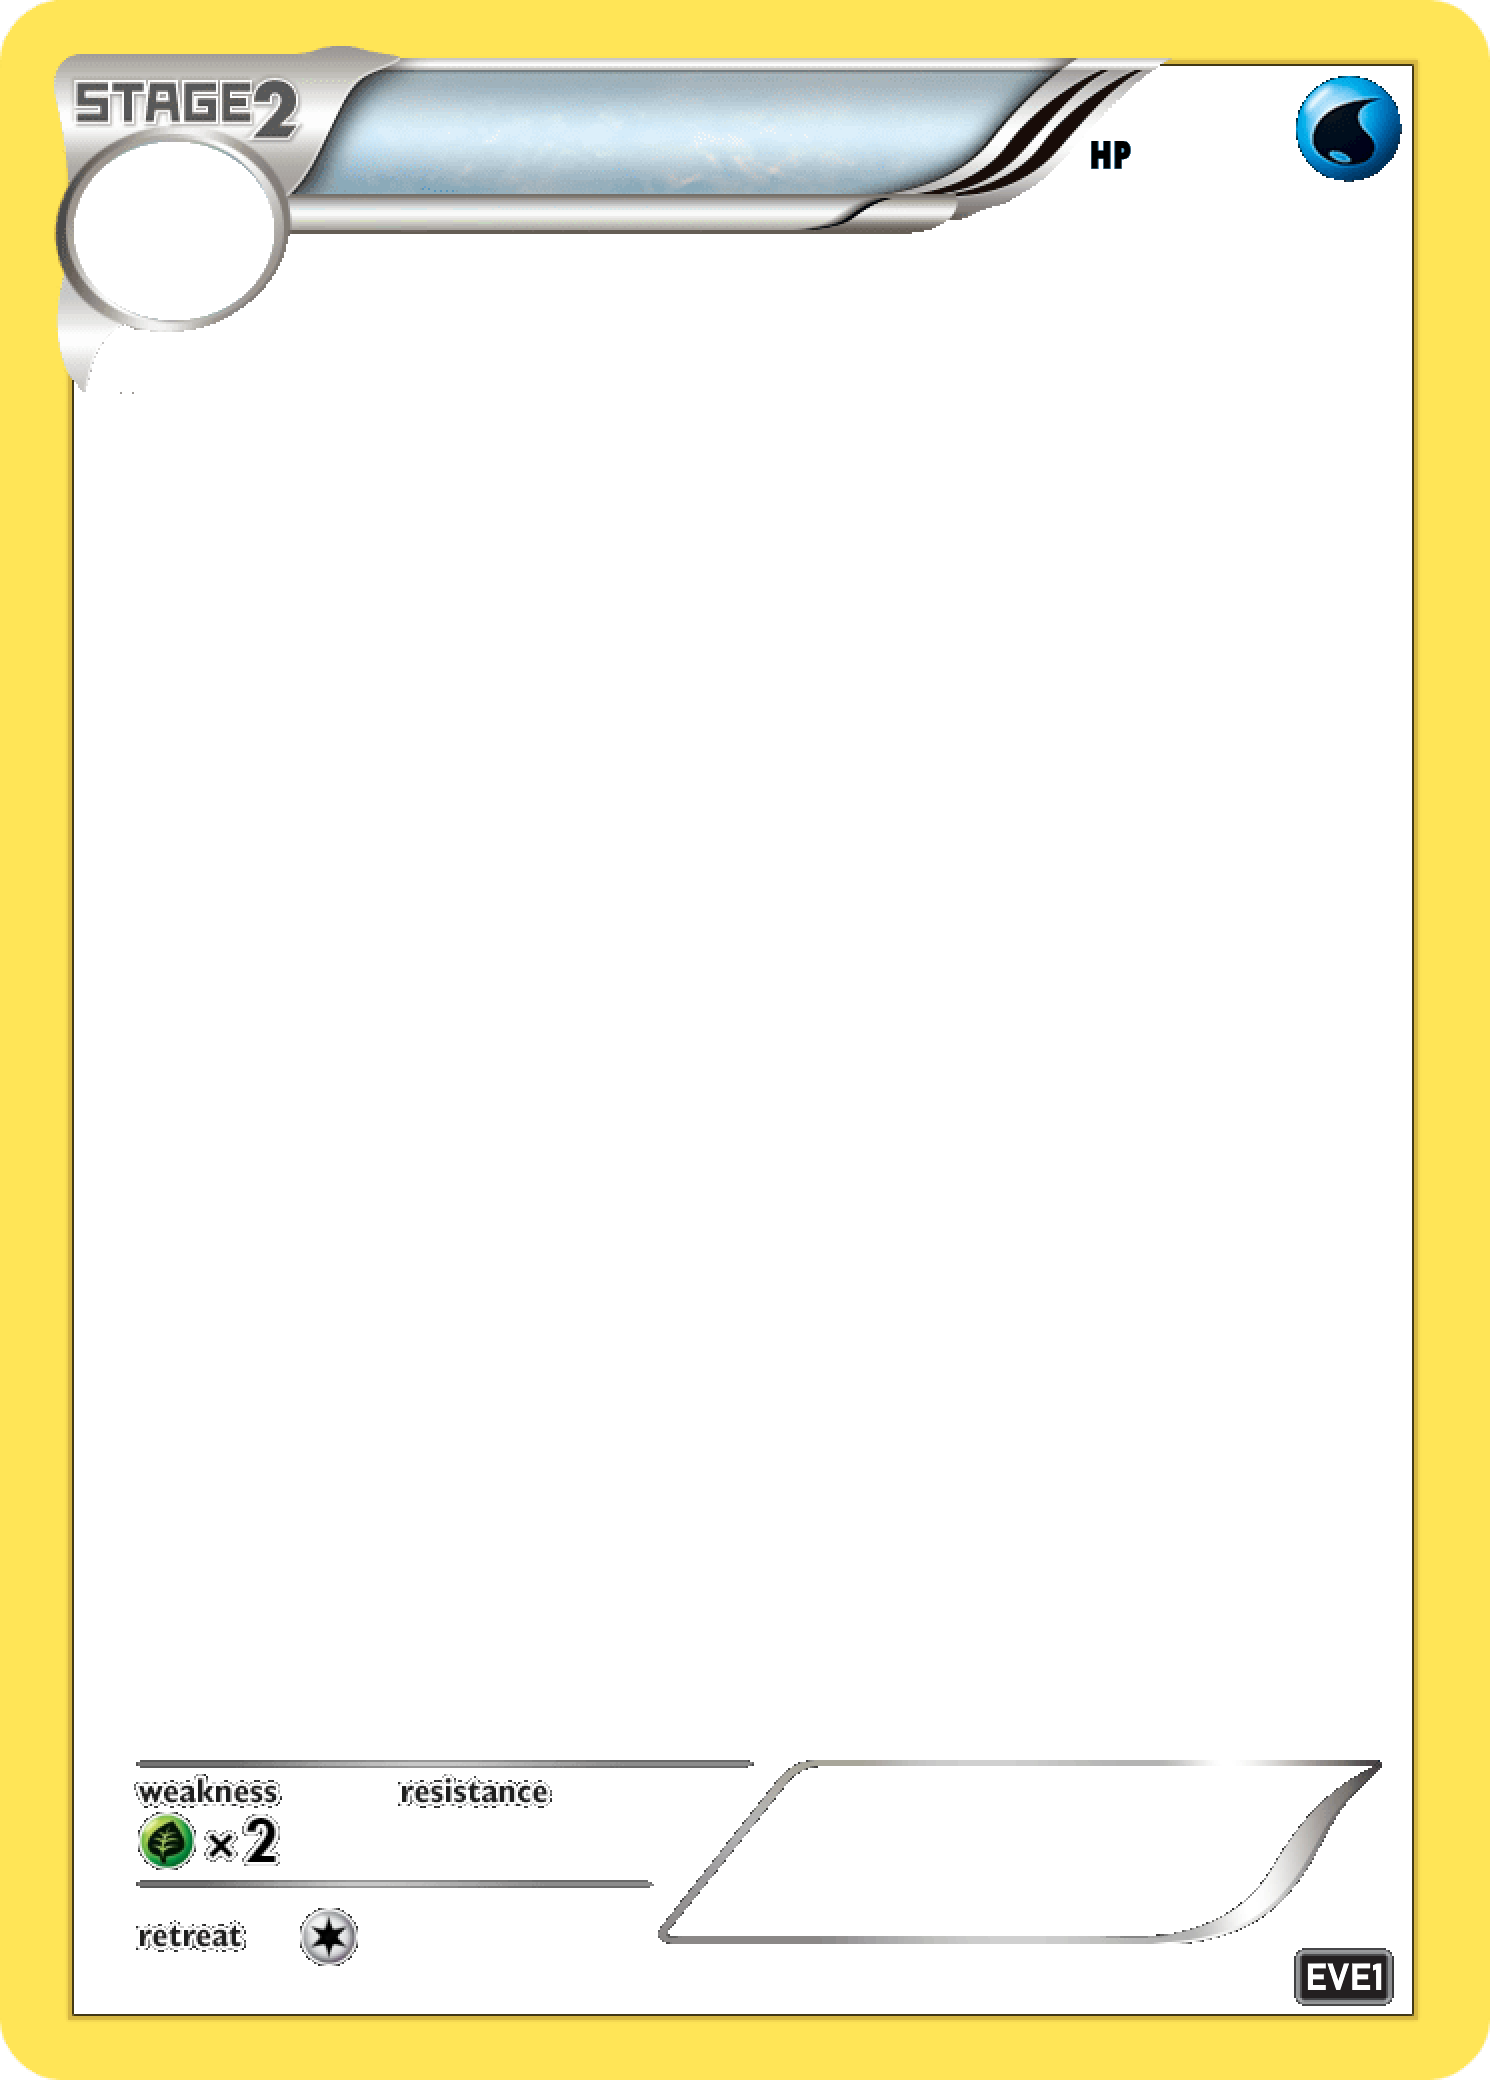
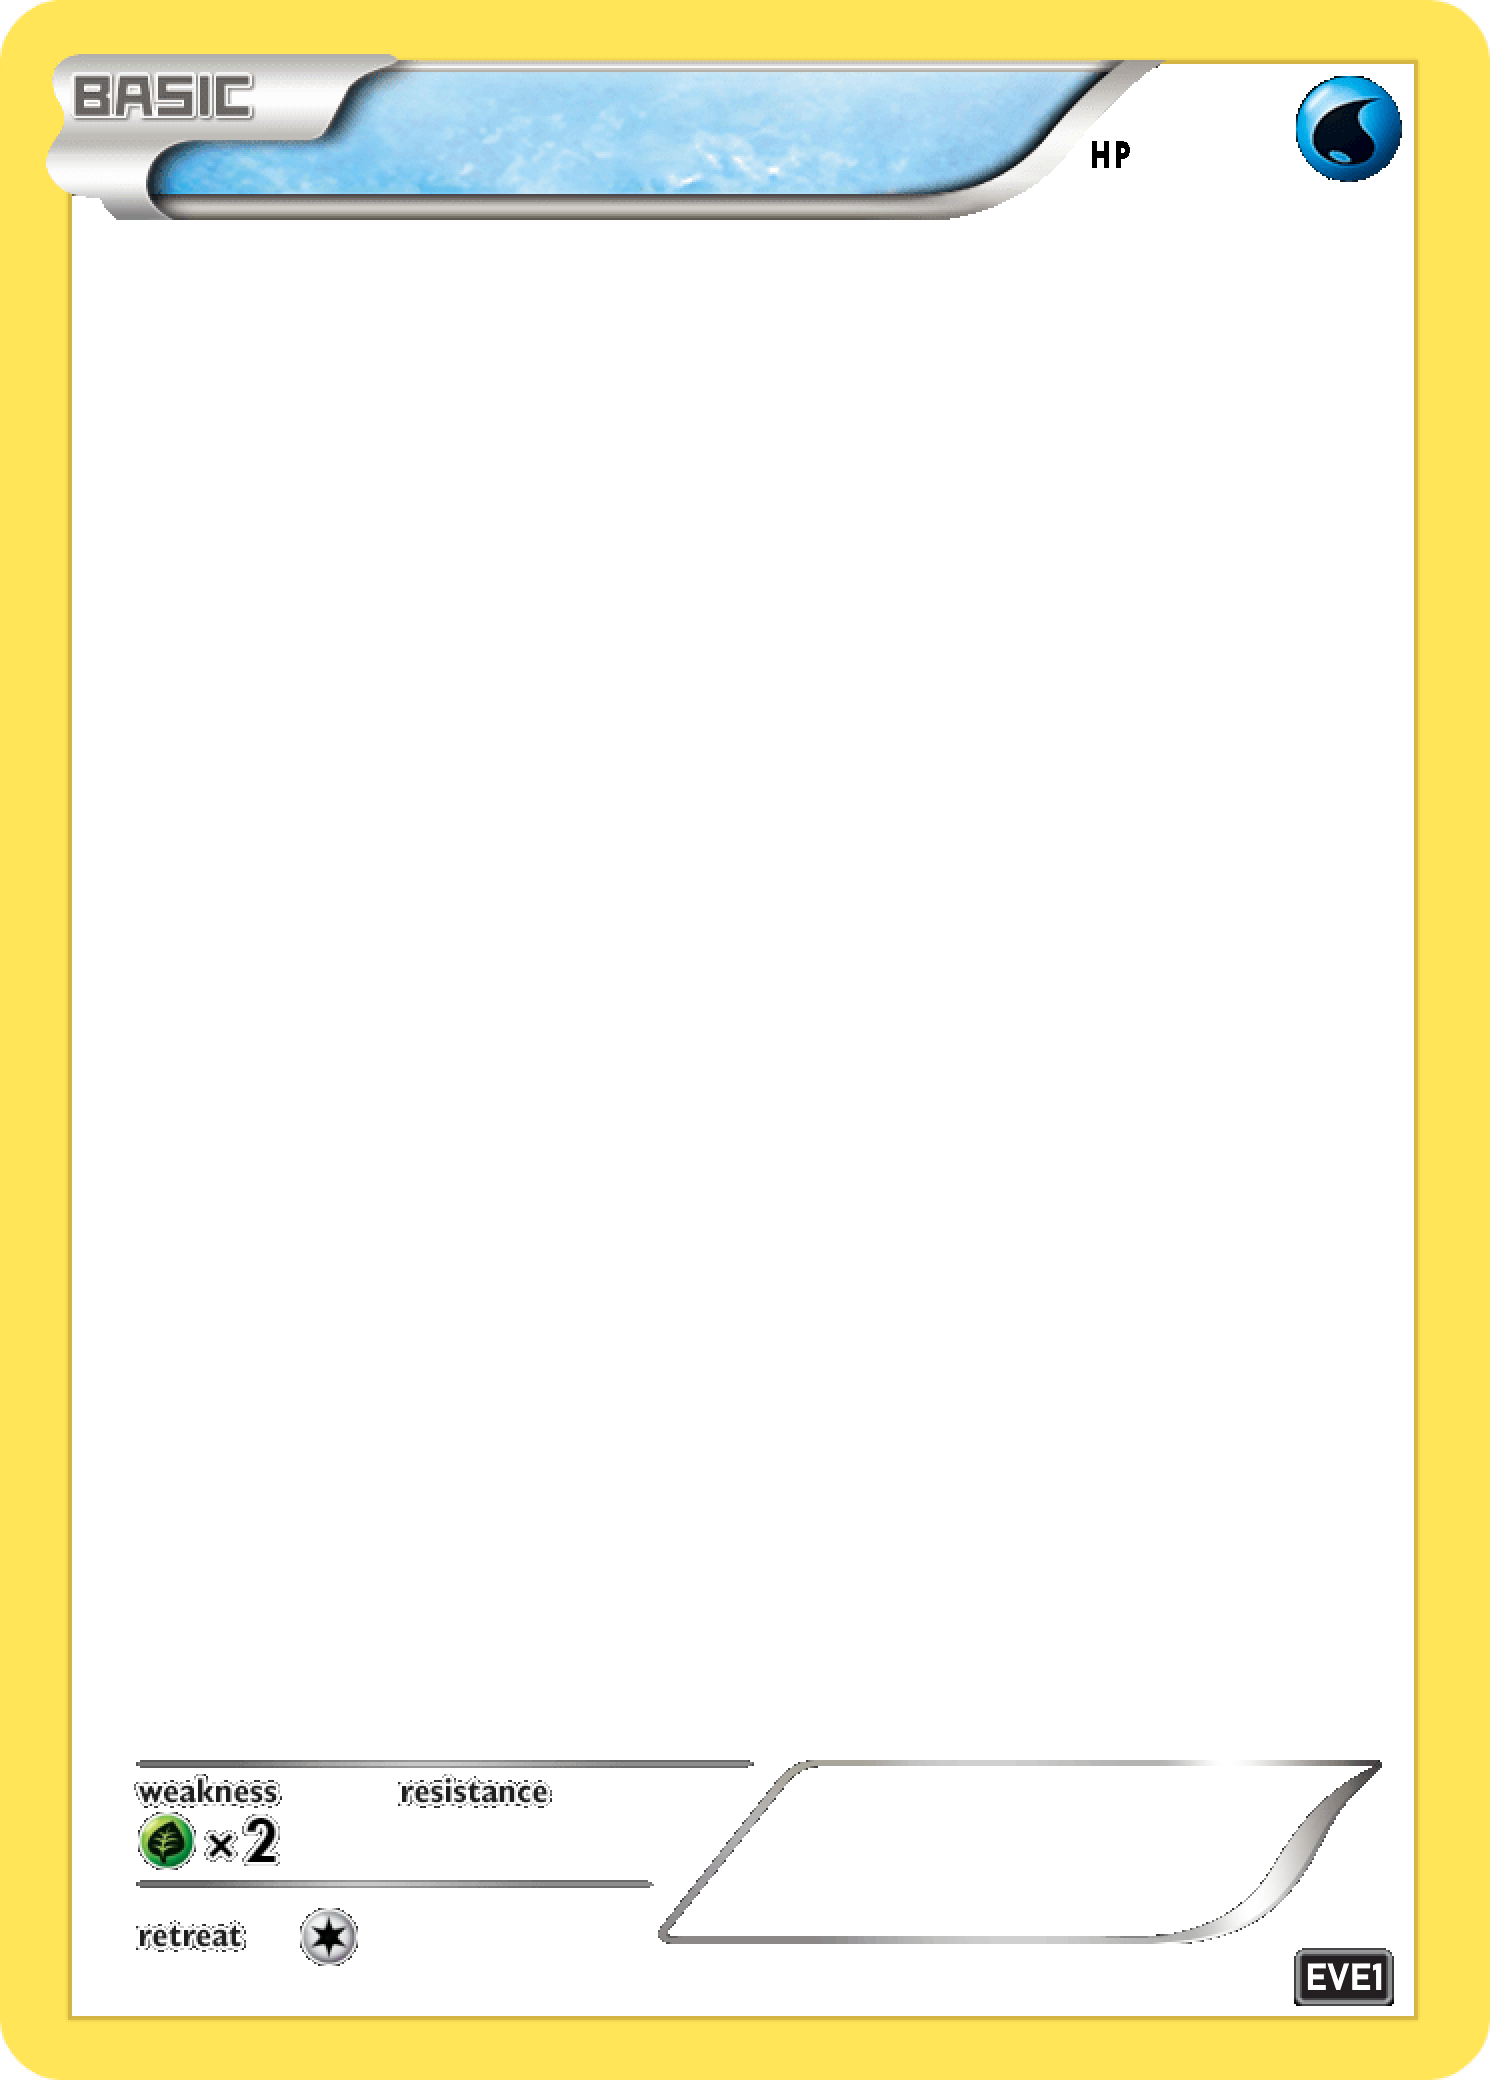
made g!pokedex

Changed region(s): [[0.0309, 0.0, 0.7718, 0.1875]]

diff --git a/pullingObjects.js b/pullingObjects.js
@@ -50,10 +50,12 @@ async function makePokeImageData(pokemonData, cardData, context, x, y) {
 
     let frame;
     if (pokemonData.poke_type == "BASIC") {
-        frame = await Canvas.loadImage(`./pokeImages/frames/${pokemonData.series}/Normal-Frame.png`);
+        if (pokemonData.card_type == "FRAME" || pokemonData.card_type == "HOLOFRAME") frame = await Canvas.loadImage(`./pokeImages/frames/${pokemonData.series}/Full-Frame.png`)
+        else frame = await Canvas.loadImage(`./pokeImages/frames/${pokemonData.series}/Normal-Frame.png`);
     }
     else if (pokemonData.poke_type == "STAGE 1") {
-        frame = await Canvas.loadImage(`./pokeImages/frames/${pokemonData.series}/Stage1-Frame.png`);
+        if (pokemonData.card_type == "FRAME" || pokemonData.card_type == "HOLOFRAME") frame = await Canvas.loadImage(`./pokeImages/frames/${pokemonData.series}/FullStage1-Frame.png`)
+        else frame = await Canvas.loadImage(`./pokeImages/frames/${pokemonData.series}/Stage1-Frame.png`);
     }
     else if (pokemonData.poke_type == "STAGE 2") {
         if (pokemonData.card_type == "FRAME" || pokemonData.card_type == "HOLOFRAME") frame = await Canvas.loadImage(`./pokeImages/frames/${pokemonData.series}/FullStage2-Frame.png`);
@@ -91,11 +93,51 @@ async function makePokeImageData(pokemonData, cardData, context, x, y) {
     return context;
 }
 
+async function makePokeImageDataNoAffection(pokemonData, context, x, y) {
+    const bottom = await Canvas.loadImage(`./pokeImages/${pokemonData.card_id}-${pokemonData.name}/Bottom.png`);
+
+    let frame;
+    if (pokemonData.poke_type == "BASIC") {
+        if (pokemonData.card_type == "FRAME" || pokemonData.card_type == "HOLOFRAME") frame = await Canvas.loadImage(`./pokeImages/frames/${pokemonData.series}/Full-Frame.png`)
+        else frame = await Canvas.loadImage(`./pokeImages/frames/${pokemonData.series}/Normal-Frame.png`);
+    }
+    else if (pokemonData.poke_type == "STAGE 1") {
+        if (pokemonData.card_type == "FRAME" || pokemonData.card_type == "HOLOFRAME") frame = await Canvas.loadImage(`./pokeImages/frames/${pokemonData.series}/FullStage1-Frame.png`)
+        else frame = await Canvas.loadImage(`./pokeImages/frames/${pokemonData.series}/Stage1-Frame.png`);
+    }
+    else if (pokemonData.poke_type == "STAGE 2") {
+        if (pokemonData.card_type == "FRAME" || pokemonData.card_type == "HOLOFRAME") frame = await Canvas.loadImage(`./pokeImages/frames/${pokemonData.series}/FullStage2-Frame.png`);
+        else frame = await Canvas.loadImage(`./pokeImages/frames/${pokemonData.series}/Stage2-Frame.png`);
+    }
+
+    const hp = await Canvas.loadImage(`./pokeImages/health/20.png`);
+    const top = await Canvas.loadImage(`./pokeImages/${pokemonData.card_id}-${pokemonData.name}/Top-${pokemonData.card_type}.png`);
+
+    const moves = await Canvas.loadImage(`./pokeImages/moves/${pokemonData.series}/${pokemonData.card_type}/${pokemonData.type}/Moves.png`);
+
+    const holoEffect = await Canvas.loadImage(`./pokeImages/effects/HOLO.png`);
+
+    context.drawImage(bottom, x, y, bottom.width, bottom.height);
+    context.drawImage(frame, x, y, bottom.width, bottom.height);
+    context.drawImage(hp, x, y, bottom.width, bottom.height);
+    context.drawImage(top, x, y, bottom.width, bottom.height);
+    context.drawImage(moves, x, y, bottom.width, bottom.height);
+
+    if (pokemonData.card_type == "HOLO" || pokemonData.card_type == "HOLOFRAME") {
+        context.globalCompositeOperation = "multiply";
+        context.drawImage(holoEffect, x, y, bottom.width, bottom.height);
+        context.globalCompositeOperation = "source-over";
+    }
+
+    return context;
+}
+
 async function makePokeImage(pokemonData, cardData) {
     const canvas = Canvas.createCanvas(1490, 2080);
     let context = canvas.getContext('2d');
 
-    context = await makePokeImageData(pokemonData, cardData, context, 0, 0);
+    if (!cardData) context = await makePokeImageDataNoAffection(pokemonData, context, 0, 0);
+    else context = await makePokeImageData(pokemonData, cardData, context, 0, 0);
 
     return canvas.encode('png');
 }
@@ -231,6 +273,13 @@ function formatName(pokemonData) {
     else return `${pokemonData.card_id}-${pokemonData.name}`;
 }
 
+function formatNameSmall(pokemonData) {
+    if (pokemonData.card_type == "HOLO") return `\\*${pokemonData.name}\\*`;
+    else if (pokemonData.card_type == "FRAME") return `[${pokemonData.name}]`;
+    else if (pokemonData.card_type == "HOLOFRAME") return `{${pokemonData.name}}`;
+    else return `${pokemonData.card_id}-${pokemonData.name}`;
+}
+
 async function checkSeriesCollect(userCards, series, message) {
     let seriesDict = {}
 
@@ -272,4 +321,4 @@ async function checkSeriesCollect(userCards, series, message) {
     }
 }
 
-module.exports = { getWhichStar, makePokeImage, makePokeImagePull, makePokeImageTrade, addBalance, raritySymbol, formatName, checkSeriesCollect };
+module.exports = { getWhichStar, makePokeImage, makePokeImagePull, makePokeImageTrade, addBalance, raritySymbol, formatName, formatNameSmall, checkSeriesCollect };

diff --git a/commands/info/pokedex.js b/commands/info/pokedex.js
@@ -1,0 +1,87 @@
+const { EmbedBuilder, AttachmentBuilder, ComponentType, ButtonBuilder, ActionRowBuilder, ButtonStyle } = require("discord.js");
+const { CardDatabase, Wishlists } = require("../../dbObjects");
+const { formatName, raritySymbol, makePokeImage } = require("../../pullingObjects");
+
+function makeEmbed(pokemonData, wishlistInfo) {
+
+    const embed = new EmbedBuilder()
+        .setColor("#616161")
+        .setImage(`attachment://poke-image.png`)
+        .setTitle(`Pokedex - ${formatName(pokemonData)}`)
+        .setDescription(`**Series** - ${pokemonData.series}\n**Rarity** - ${pokemonData.rarity} [${raritySymbol(pokemonData.rarity)}]\n**Card Type** - ${pokemonData.card_type}\n**Wishlisted** - ${wishlistInfo}\n\n**Time Pulled** - ${pokemonData.times_pulled}\n**Cards in Circulation** - ${pokemonData.in_circulation}\n\n**Poke #** - ${pokemonData.poke_number}\n**Day Drawn** - ${pokemonData.drawn_date}\n**Type** - ${pokemonData.type}\n\n**Get** - ${pokemonData.obtain}`)
+
+    return embed;
+}
+
+function makeButton() {
+
+    const leftButton = new ButtonBuilder()
+        .setCustomId("left")
+        .setStyle(ButtonStyle.Secondary)
+        .setEmoji("◀")
+        .setDisabled(true);
+
+    const rightButton = new ButtonBuilder()
+        .setCustomId("right")
+        .setStyle(ButtonStyle.Secondary)
+        .setEmoji("▶");
+
+    const row = new ActionRowBuilder()
+        .addComponents(leftButton, rightButton);
+
+    return row;
+}
+
+module.exports = {
+    name: "pokedex",
+    shortName: ["pd"],
+        
+    async execute(message) {
+        const splitMessage = message.content.split(" ");
+
+        if (splitMessage.length != 2) { await message.channel.send(`${message.author}, please enter the name of the pokemon you'd like to lookup`); return; }
+
+        const pokeName = `${splitMessage[1][0].toUpperCase()}${splitMessage[1].substr(1).toLowerCase()}`;
+        
+        const pokeList = await CardDatabase.findAll({ where: { name: pokeName } });
+        if (pokeList.length == 0) { await message.channel.send(`${message.author}, that pokemon either dosen't exist or its name is misspelt.`); return; }
+
+        let pokeIndex = 0;
+
+        let wishlistInfo = (await Wishlists.findAll({ where: { card_id: pokeList[pokeIndex].card_id } })).length;
+
+        let attachment = new AttachmentBuilder(await makePokeImage(pokeList[pokeIndex], null), { name: 'poke-image.png' });
+
+        const buttons = makeButton();
+        buttons.components[0].setDisabled(true);
+        
+        const response = await message.channel.send({ embeds: [makeEmbed(pokeList[pokeIndex], wishlistInfo)], files: [attachment], components: [buttons] });
+        
+        const collector = response.createMessageComponentCollector({ componentType: ComponentType.Button, time: 150_000 });
+
+        collector.on("collect", async i => {
+            if (i.user.id != message.author.id) return;
+
+            if (i.customId == "right") {
+                pokeIndex++;
+                wishlistInfo = (await Wishlists.findAll({ where: { card_id: pokeList[pokeIndex].card_id } })).length;
+                attachment = new AttachmentBuilder(await makePokeImage(pokeList[pokeIndex], null), { name: 'poke-image.png' });
+
+                buttons.components[0].setDisabled(false);
+                if (pokeIndex + 1 == pokeList.length) buttons.components[1].setDisabled(true);
+                await response.edit({ embeds: [makeEmbed(pokeList[pokeIndex], wishlistInfo)], files: [attachment], components: [buttons] });
+                i.deferUpdate();
+            }
+            else if (i.customId == "left") {
+                pokeIndex--;
+                wishlistInfo = (await Wishlists.findAll({ where: { card_id: pokeList[pokeIndex].card_id } })).length;
+                attachment = new AttachmentBuilder(await makePokeImage(pokeList[pokeIndex], null), { name: 'poke-image.png' });
+
+                buttons.components[1].setDisabled(false);
+                if (pokeIndex == 0) buttons.components[0].setDisabled(true);
+                await response.edit({ embeds: [makeEmbed(pokeList[pokeIndex], wishlistInfo)], files: [attachment], components: [buttons] });
+                i.deferUpdate();
+            }
+        })
+    }
+}

diff --git a/commands/info/userInfo.js b/commands/info/userInfo.js
@@ -43,7 +43,6 @@ module.exports = {
         const splitMessage = message.content.split(" ");
 
         let user;
-        let userStat;
 
         const buttons = makeButton();
         buttons.components[0].setDisabled(true);
@@ -55,28 +54,29 @@ module.exports = {
 
         if (splitMessage.length == 1) {
             user = await Users.findOne({ where: { user_id: message.author.id } });
-            userStat = await UserStats.findOne({ where: { user_id: user.user_id } });
-
-            const userTitles = await UserTitles.findAll({ where: { user_id: user.user_id } });
-
-            for (title of userTitles) {
-                const titleData = await TitleDatabase.findOne({ where: { id: title.title_id } });
-                
-                titleList.push(`\`${titleData.name}\``);
-                titleDesc.push(`**${titleData.name}:**\n\`\`\`${titleData.description}\`\`\``);
-            }
-
-            if (titleList.length == 0) {
-                titleList.push('\`None\`')
-                titleDesc.push(`\`No Titles\``)
-            }
-
-            await response.edit({ content: "", embeds: [makeEmbed(user, message.author, userStat, titleList)], components: [buttons] });
-            
         }
         else {
-            // Check other user stats
+            user = await Users.findOne({ where: { user_id: message.mentions.users.first().id } });
+            if (!user) { await response.edit(`${message.author}, that user either dosen't exist or is not registered.`); return; }
         }
+
+        const userStat = await UserStats.findOne({ where: { user_id: user.user_id } });
+
+        const userTitles = await UserTitles.findAll({ where: { user_id: user.user_id } });
+
+        for (title of userTitles) {
+            const titleData = await TitleDatabase.findOne({ where: { id: title.title_id } });
+            
+            titleList.push(`\`${titleData.name}\``);
+            titleDesc.push(`**${titleData.name}:**\n\`\`\`${titleData.description}\`\`\``);
+        }
+
+        if (titleList.length == 0) {
+            titleList.push('\`None\`')
+            titleDesc.push(`\`No Titles\``)
+        }
+
+        await response.edit({ content: "", embeds: [makeEmbed(user, message.author, userStat, titleList)], components: [buttons] });
 
         const collector = response.createMessageComponentCollector({ componentType: ComponentType.Button, time: 150_000 });
 

diff --git a/commands/info/cardInfo.js b/commands/info/cardInfo.js
@@ -5,7 +5,7 @@ const { raritySymbol, makePokeImage, formatName } = require("../../pullingObject
 function makeCardImageEmbed(pokemonData, cardCode, user) {
     const cardImageEmbed = new EmbedBuilder()
         .setColor("#616161")
-        .setImage(`attachment://${pokemonData.card_id}-${pokemonData.name}.png`)
+        .setImage(`attachment://poke-image.png`)
         .setTitle("Card Info")
         .setDescription(`Owned by ${user}\n\n**${formatName(pokemonData)}** - \`${cardCode}\` - \`${pokemonData.rarity}\` - \`${pokemonData.series}\` - \`#${pokemonData.poke_number}\``)
         .setFooter( { text: `Drawn on: ${pokemonData.drawn_date}` })
@@ -17,7 +17,7 @@ function makeCardStatEmbed(pokemonData, wishlistInfo) {
 
     const cardStatEmbed = new EmbedBuilder()
         .setColor("#616161")
-        .setThumbnail(`attachment://${pokemonData.card_id}-${pokemonData.name}.png`)
+        .setThumbnail(`attachment://poke-image.png`)
         .setTitle("Card Info")
         .setDescription(` **Pokemon** - ${formatName(pokemonData)}\n**Series** - ${pokemonData.series}\n**Rarity** - ${pokemonData.rarity} [${raritySymbol(pokemonData.rarity)}]\n**Card Type** - ${pokemonData.card_type}\n**Wishlisted** - ${wishlistInfo}\n\n**Time Pulled** - ${pokemonData.times_pulled}\n**Cards in Circulation** - ${pokemonData.in_circulation}\n\n**Poke #** - ${pokemonData.poke_number}\n**Day Drawn** - ${pokemonData.drawn_date}\n**Type** - ${pokemonData.type}`)
 

diff --git a/dbInit.js b/dbInit.js
@@ -39,7 +39,8 @@ sequelize.sync({ force }).then(async () => {
 				rarity: allCards[series][card]["Rarity"],
 				card_type: allCards[series][card]["CardType"],
 				poke_type: allCards[series][card]["PokeType"],
-				series: allCards[series][card]["Series"]})
+				series: allCards[series][card]["Series"],
+				obtain: allCards[series][card]["Obtain"]})
 			);
 	}
 

diff --git a/models/CardDatabase.js b/models/CardDatabase.js
@@ -28,7 +28,10 @@ module.exports = (sequelize, DataTypes) => {
         series: {
 			type: DataTypes.STRING,
 		},
-		
+		obtain: {
+			type: DataTypes.STRING,
+		},
+
 		times_pulled: {
 			type: DataTypes.INTEGER,
 			defaultValue: 0,
